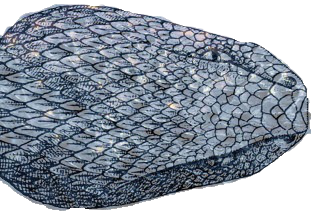
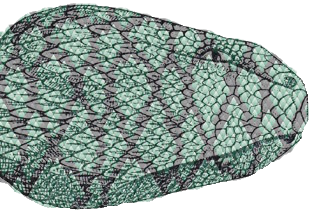
Add React.Suspense

diff --git a/src/components/Game/stages/Game.js b/src/components/Game/stages/Game.js
@@ -2,8 +2,8 @@ import React from 'react';
 import css from './Game.module.css';
 import FieldGame from '../area/FieldGame';
 import {time, orientation} from '../../../store/Reducer';
-import {store} from "../../../store/State";
 import Back from './Back';
+import {Loading} from './Loading';
 
 export default class Game extends React.Component {
     constructor(props) {
@@ -49,12 +49,12 @@ export default class Game extends React.Component {
             }
         }
 
-        if(head.x < 0 || head.x > store.fieldSize) {
+        if(head.x < 0 || head.x > this.props.store.fieldSize) {
             this.setState({end: true});
             clearInterval(this.timerID);
         }
 
-        if(head.y < 0 || head.y > store.columnSize) {
+        if(head.y < 0 || head.y > this.props.store.columnSize) {
             this.setState({end: true});
             clearInterval(this.timerID);
         }
@@ -62,20 +62,24 @@ export default class Game extends React.Component {
     }
 
     render() {
+        const Loading = React.lazy(() => import('./Loading'));
         return(
-            <div tabIndex="0"
-                 onKeyDown={(e) =>{ orientation(e.key)}}
-                 className={css.bg}
-                 ref={this.contain}>
-                <div className={css.container}>
-                    <div className={css.score}/>
-                    <span className={css.span}>{this.props.store.score}</span>
-                    <div className={css.clock}/>
-                    <span className={css.span}>{this.props.store.time}</span>
-                    <Back end={this.state.end}/>
+            <React.Suspense fallback={Loading}>
+                <div tabIndex="0"
+                     onKeyDown={(e) =>{ orientation(e.key)}}
+                     className={css.bg}
+                     ref={this.contain}>
+                    <div className={css.container}>
+                        <div className={css.score}/>
+                        <span className={css.span}>{this.props.store.score}</span>
+                        <div className={css.clock}/>
+                        <span className={css.span}>{this.props.store.time}</span>
+                        <Back end={this.state.end}/>
+                    </div>
+                    <FieldGame store={this.props.store}/>
                 </div>
-                <FieldGame store={this.props.store}/>
-            </div>
+            </React.Suspense>
+
         )
     }
 }

diff --git a/src/Routes.js b/src/Routes.js
@@ -2,16 +2,16 @@ import React from 'react';
 import {Switch, Route, Redirect} from 'react-router-dom';
 import {Menu} from './components/Menu/Menu';
 import End from './components/Game/stages/End';
-import Game from "./components/Game/stages/Game";
 import ChooseSnake from './components/Menu/ChooseSnake';
 import HighScore from './components/Menu/HighScore';
+import {WrapperForGame} from './components/Game/stages/WrapperForGame'
 
 function Routes(props) {
 
   return (
       <Switch >
           <Route exact path='/menu' component={Menu} />
-          <Route path='/game' render={() => <Game {...props}  />} />
+          <Route path='/game' render={() => <WrapperForGame {...props}  />} />
           <Route path='/chooseSnake' render={() => <ChooseSnake {...props} />} />
           <Route path='/highScore' component={HighScore} />
           <Route path='/end' component={End} />

diff --git a/src/components/Game/stages/Game.module.css b/src/components/Game/stages/Game.module.css
@@ -83,7 +83,7 @@
     border-radius: 20px;
     color: white;
     font: bold 2vh/3vh Helvetica;
-    box-shadow: 5px 0px 0px #373740, 0 0 1em #ffb900;
+    box-shadow: 5px 0 0 #373740, 0 0 1em #ffb900;
 }
 .bubble1{
     height: 6vh;
@@ -115,4 +115,20 @@
     border-radius: 100%;
     top: 58vh;
     right: 29vw;
+}
+.bgLoading {
+    background-color: black;
+    height: 100vh;
+    width: 100vw;
+    padding: 30vh 0 0 25vw;
+    box-sizing: border-box;
+}
+.loading{
+    background: url('../../../images/L.gif') no-repeat;
+    background-size: cover;
+    height: 35vh;
+    width: 55vw;
+}
+.p{
+    margin: 10vh 0 0 15vw;
 }

diff --git a/src/index.js b/src/index.js
@@ -2,14 +2,14 @@ import React from 'react';
 import ReactDOM from 'react-dom';
 import './index.css';
 import Routes from './Routes';
-import { BrowserRouter } from 'react-router-dom';
+import {BrowserRouter} from 'react-router-dom';
 import {store} from './store/State';
 
 
-    ReactDOM.render((
-        <BrowserRouter>
-            <Routes store={store} />
-        </BrowserRouter>
-    ), document.getElementById('root'));
+ReactDOM.render((
+    <BrowserRouter>
+        <Routes store={store}/>
+    </BrowserRouter>
+), document.getElementById('root'));
 
 

diff --git a/src/store/State.js b/src/store/State.js
@@ -11,8 +11,8 @@ export const store = {
     _mouse__1: {x: 9, y: 6},
     _mouse__2: {x: 20, y: 10},
     _time:'0:00:00',
-    _model: '4',
-    _speed: 5,
+    _model: '8',
+    _speed: 3,
     _score: 0,
     _blood: {x: -1, y: -1},
 
@@ -70,7 +70,7 @@ export const store = {
         this._speed = value < 4 ? 10 :
             value < 6 ? 5 :
                 value < 8 ? 4 :
-                    value < 10 ? 3 :
+                    value < 11 ? 3 :
                         value < 12 ? 2 : 1
 
     },

diff --git a/src/components/Game/stages/WrapperForGame.js b/src/components/Game/stages/WrapperForGame.js
@@ -1,0 +1,14 @@
+import React from 'react';
+import {Loading} from './Loading';
+
+export function WrapperForGame(props) {
+    const Game = React.lazy(() => new Promise( (resolve) => {
+        setTimeout( () => resolve(import('./Game')), 2000)
+    }));
+
+    return(
+        <React.Suspense fallback={<Loading />}>
+            <Game store={props.store} />
+        </React.Suspense>
+    )
+}

diff --git a/src/components/Game/area/FieldGame.js b/src/components/Game/area/FieldGame.js
@@ -4,8 +4,8 @@ import {WrapperForCell} from '../area/WrapperForCell';
 
 export default function FieldGame(props) {
 
-    const fieldSize = props.store.fieldSize;
-    const columnSize = props.store.columnSize;
+    const {fieldSize, columnSize} = props.store;
+
     const fieldRow = [...new Array(fieldSize).keys()];
     const fieldColumn = [...new Array(columnSize).keys()];
 

diff --git a/src/components/Game/stages/Back.js b/src/components/Game/stages/Back.js
@@ -5,7 +5,7 @@ import css from './Game.module.css';
 export default function Back(props) {
     let history = useHistory();
 
-    if(props.end) setTimeout(() => handleClick('/end'),600);
+    if(props.end) setTimeout(() => handleClick('/end'),400);
 
     function handleClick(str) {
         history.push(str);

diff --git a/src/components/Game/stages/Loading.js b/src/components/Game/stages/Loading.js
@@ -1,0 +1,11 @@
+import React from 'react';
+import css from './Game.module.css';
+
+export function Loading() {
+    return (
+        <div className={css.bgLoading}>
+            <div className={css.loading}/>
+            <p className={css.p}>LOADING...</p>
+        </div>
+    )
+}
